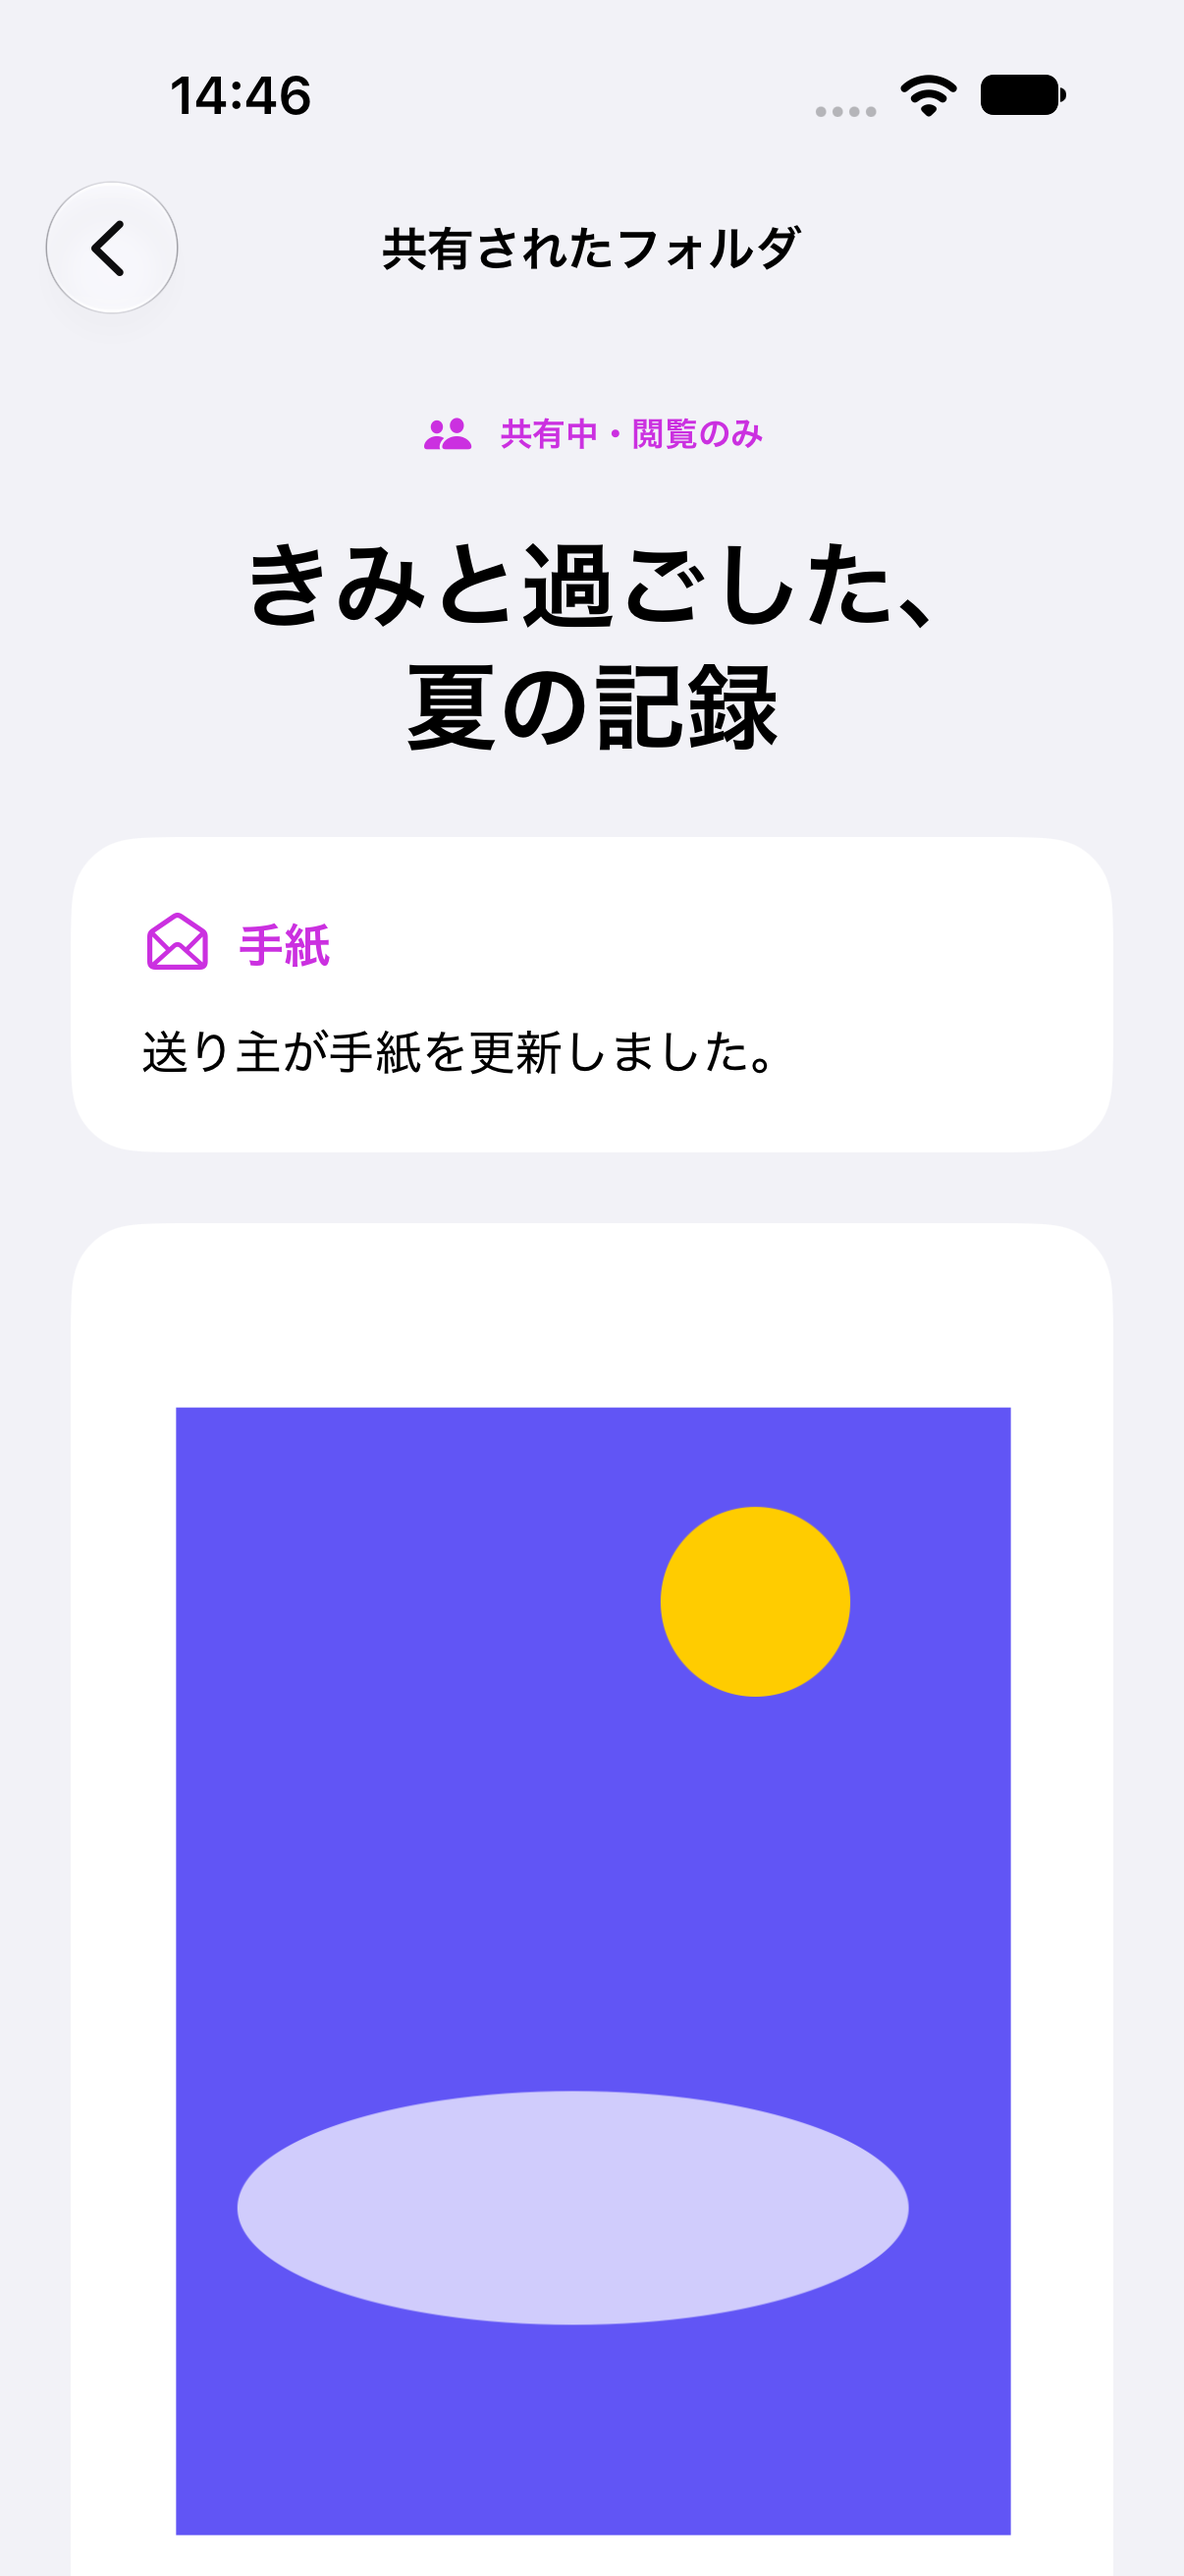
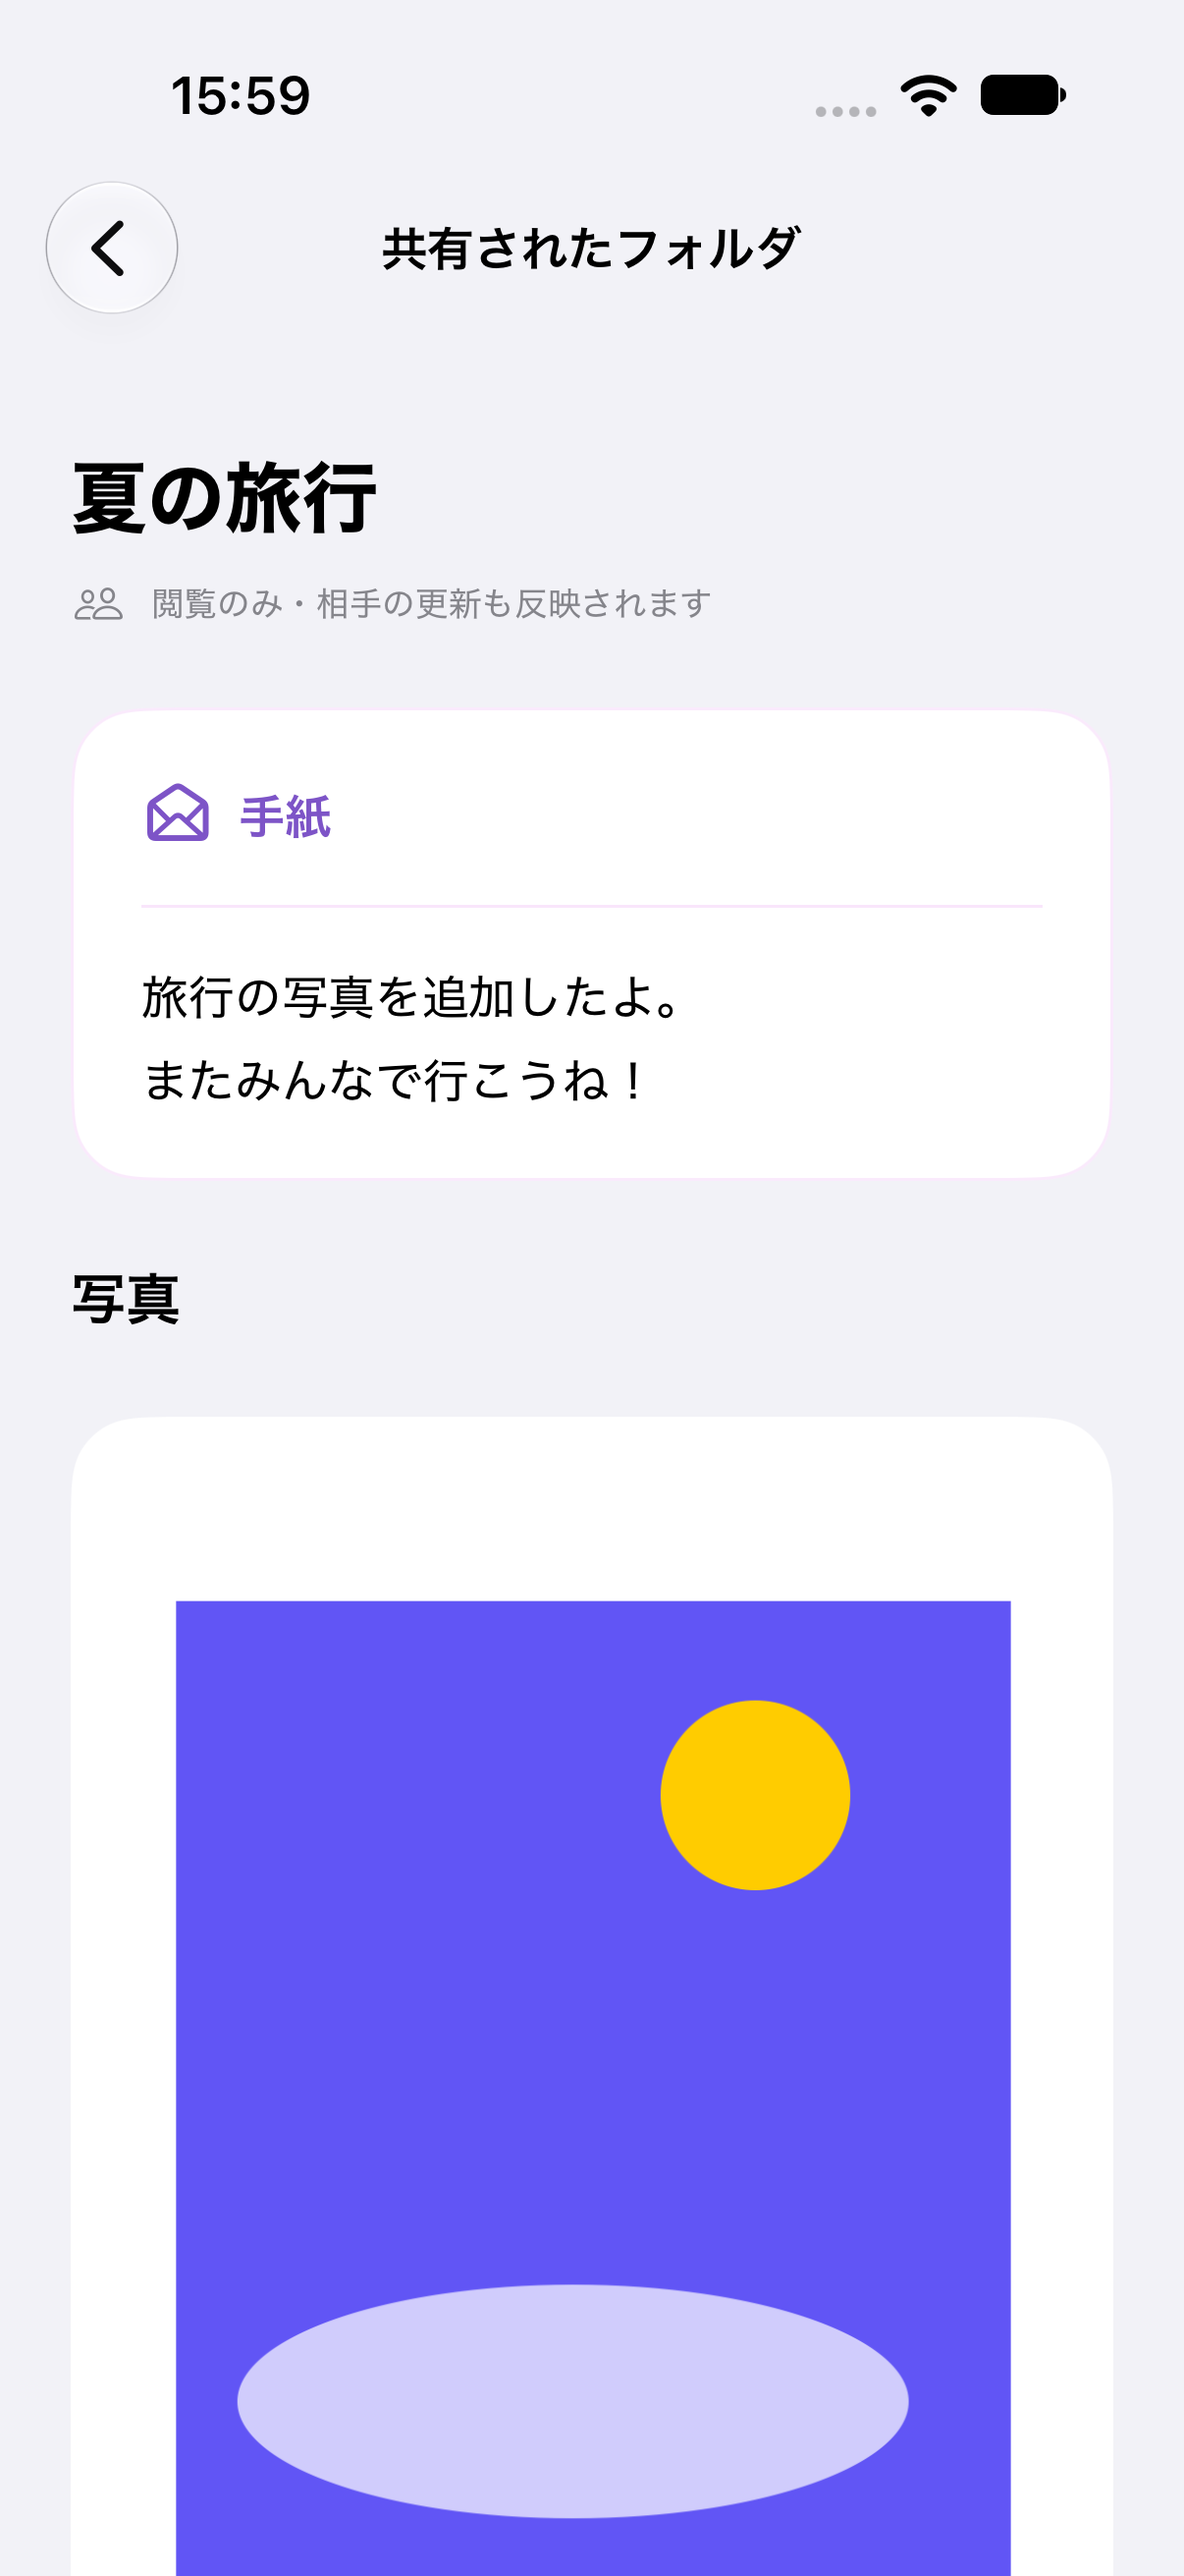
招待の受け取り画面と共有フォルダの表示を整える

diff --git a/sotsugyo/View/FolderInvitationView.swift b/sotsugyo/View/FolderInvitationView.swift
@@ -23,30 +23,40 @@ struct FolderInvitationView: View {
             ZStack {
                 GiftBackdrop()
                 ScrollView {
-                    VStack(spacing: 28) {
+                    VStack(spacing: 24) {
                         if let invitation = model.invitation {
-                            VStack(spacing: 10) {
+                            VStack(spacing: 18) {
                                 Text("\(invitation.senderName)さんから")
                                     .font(.subheadline.weight(.semibold))
-                                    .foregroundStyle(.secondary)
+                                    .foregroundStyle(GiftPalette.purple)
+                                    .padding(.horizontal, 16).padding(.vertical, 8)
+                                    .background(GiftPalette.purple.opacity(0.08), in: Capsule())
                                 Text(invitation.folder.title)
                                     .font(.system(size: 28, weight: .heavy, design: .rounded))
                                     .multilineTextAlignment(.center)
                                     .accessibilityIdentifier("invite.heading")
                             }
-                            .padding(.top, 28)
+                            .padding(.top, 24)
                             GiftEnvelope(opened: opened, reduceMotion: reduceMotion)
                                 .scaleEffect(0.85).frame(height: 250)
-                            if opened {
-                                Label("受け取りました", systemImage: "checkmark.circle.fill")
-                                    .font(.headline).foregroundStyle(GiftPalette.purple)
-                                    .accessibilityIdentifier("invite.received")
-                            }
+                            Label("受け取りました", systemImage: "checkmark.circle.fill")
+                                .font(.headline).foregroundStyle(GiftPalette.purple)
+                                .opacity(opened ? 1 : 0)
+                                .accessibilityHidden(!opened)
+                                .accessibilityIdentifier("invite.received")
                         }
                         controls
-                        Text("相手が写真や手紙を更新すると、ここにも反映されます。\n内容を編集することはできません。")
-                            .font(.caption).foregroundStyle(.secondary)
+                        if model.invitation != nil {
+                            VStack(spacing: 8) {
+                                Label("相手の更新もここに反映されます", systemImage: "arrow.triangle.2.circlepath")
+                                    .font(.footnote.weight(.medium))
+                                Text("写真や手紙を見ることができます。編集はできません。")
+                                    .font(.caption)
+                            }
+                            .foregroundStyle(.secondary)
                             .multilineTextAlignment(.center)
+                            .padding(.top, 2)
+                        }
                     }
                     .padding(.horizontal, 28).padding(.bottom, 32)
                     .frame(maxWidth: 540).frame(maxWidth: .infinity)
@@ -79,12 +89,20 @@ struct FolderInvitationView: View {
 
     @ViewBuilder private var controls: some View {
         if let error = model.error {
-            VStack(spacing: 12) {
+            VStack(spacing: 20) {
+                if model.invitation == nil {
+                    Image(systemName: "envelope.badge")
+                        .font(.system(size: 44, weight: .light))
+                        .foregroundStyle(GiftPalette.purple)
+                        .padding(.top, 64)
+                }
                 Text(error).font(.subheadline).multilineTextAlignment(.center).accessibilityIdentifier("invite.error")
                 Button("もう一度試す") { Task { if model.invitation == nil { await model.load(link) } else { await model.receive() } } }
+                    .buttonStyle(.bordered).controlSize(.large)
             }
         } else if model.invitation == nil {
             ProgressView("招待を確認しています…")
+                .padding(.top, 80)
         } else {
             Button {
                 if opened { showFolder = true } else { Task { await model.receive() } }

diff --git a/sotsugyo/View/SharedFolderView.swift b/sotsugyo/View/SharedFolderView.swift
@@ -19,22 +19,34 @@ struct SharedFolderView: View {
     }
     var body: some View {
         ScrollView {
-            VStack(spacing: 24) {
-                Label("共有中・閲覧のみ", systemImage: "person.2.fill")
-                    .font(.caption.bold()).foregroundStyle(.purple)
-                Text(model.folder?.title ?? reference.title).font(.largeTitle.bold()).multilineTextAlignment(.center)
+            VStack(alignment: .leading, spacing: 28) {
+                VStack(alignment: .leading, spacing: 12) {
+                    Text(model.folder?.title ?? reference.title)
+                        .font(.system(size: 28, weight: .heavy, design: .rounded))
+                        .frame(maxWidth: .infinity, alignment: .leading)
+                    Label("閲覧のみ・相手の更新も反映されます", systemImage: "person.2")
+                        .font(.caption).foregroundStyle(.secondary)
+                }
+                .padding(.top, 12)
                 if let error = model.error {
                     Text(error).font(.subheadline).multilineTextAlignment(.center)
                     Button("再読み込み") { retryID = UUID() }
                 }
                 if model.isLoading { ProgressView("フォルダを読み込んでいます…") }
                 if let folder = model.folder, !folder.letter.isEmpty {
-                    VStack(alignment: .leading, spacing: 16) {
-                        Label("手紙", systemImage: "envelope.open").font(.headline).foregroundStyle(.purple)
+                    VStack(alignment: .leading, spacing: 20) {
+                        Label("手紙", systemImage: "envelope.open")
+                            .font(.system(.headline, design: .rounded, weight: .bold))
+                            .foregroundStyle(Color(red: 0.49, green: 0.33, blue: 0.78))
+                        Rectangle().fill(.purple.opacity(0.12)).frame(height: 1)
                         Text(folder.letter).font(.body).lineSpacing(8).frame(maxWidth: .infinity, alignment: .leading)
                             .accessibilityIdentifier("shared.letter")
                     }
                     .padding(24).background(Color(uiColor: .secondarySystemGroupedBackground), in: RoundedRectangle(cornerRadius: 24))
+                    .overlay { RoundedRectangle(cornerRadius: 24).strokeBorder(.purple.opacity(0.10), lineWidth: 1) }
+                }
+                if !model.photos.isEmpty {
+                    Text("写真").font(.system(.title3, design: .rounded, weight: .bold))
                 }
                 ForEach(model.photos) { photo in
                     VStack(spacing: 0) {

diff --git a/sotsugyo/Utils/UITestFixtures.swift b/sotsugyo/Utils/UITestFixtures.swift
@@ -124,7 +124,7 @@ final class UITestSettingViewModel: SettingViewModel {
 #if DEBUG
 struct UITestInvitationRepository: FolderInvitationRepository {
     static let link = FolderInviteLink(token: String(repeating: "a", count: 64))
-    static let shared = LiveSharedFolder(ownerID: "fixture-owner", folderID: "fixture-shared", title: "きみと過ごした、夏の記録")
+    static let shared = LiveSharedFolder(ownerID: "fixture-owner", folderID: "fixture-shared", title: "夏の旅行")
     func create(folderID: String) async throws -> FolderInvitation { try await resolve(link: Self.link) }
     func resolve(link: FolderInviteLink) async throws -> FolderInvitation {
         if ProcessInfo.processInfo.arguments.contains("-ui-testing-invite-expired") { throw FolderInviteError.unavailable }
@@ -140,13 +140,13 @@ struct UITestInvitationRepository: FolderInvitationRepository {
     func observe(_ folder: LiveSharedFolder) -> AsyncThrowingStream<SharedFolderUpdate, Error> {
         AsyncThrowingStream { continuation in
             continuation.yield(.folder(PhotoFolder(id: folder.folderID, title: folder.title, date: nil,
-                letter: "あの日の空も、帰り道に聴いた曲も。\n何気ない時間が、いちばんの宝物です。\nまた一緒に、思い出を増やそうね。")))
+                letter: "旅行の写真をまとめたよ。\nまたみんなで行こうね！")))
             continuation.yield(.photos([PhotoRecord(id: "fixture", fileName: "fixture.jpg", date: Date(), music: nil, livePhotoFileName: "")]))
             let update = Task {
                 if ProcessInfo.processInfo.arguments.contains("-ui-testing-invite-update") {
                     try? await Task.sleep(for: .seconds(2))
                     guard !Task.isCancelled else { return }
-                    continuation.yield(.folder(PhotoFolder(id: folder.folderID, title: folder.title, date: nil, letter: "送り主が手紙を更新しました。")))
+                    continuation.yield(.folder(PhotoFolder(id: folder.folderID, title: folder.title, date: nil, letter: "旅行の写真を追加したよ。\nまたみんなで行こうね！")))
                 }
             }
             continuation.onTermination = { _ in update.cancel() }

diff --git a/sotsugyoUITests/sotsugyoUITests.swift b/sotsugyoUITests/sotsugyoUITests.swift
@@ -8,7 +8,7 @@ final class sotsugyoUITests: XCTestCase {
         app.launchArguments = ["-ui-testing", "-ui-testing-invite", "-ui-testing-invite-update", "-AppleLanguages", "(ja)", "-AppleLocale", "ja_JP"]
         app.launch()
         XCTAssertTrue(app.buttons["invite.open"].waitForExistence(timeout: 10))
-        XCTAssertEqual(app.staticTexts["invite.heading"].label, "きみと過ごした、夏の記録")
+        XCTAssertEqual(app.staticTexts["invite.heading"].label, "夏の旅行")
         XCTAssertTrue(app.staticTexts["さきさんから"].exists)
         attachScreenshot("招待の封筒")
         app.buttons["invite.open"].tap()
@@ -16,7 +16,7 @@ final class sotsugyoUITests: XCTestCase {
         attachScreenshot("思い出の開封")
         app.buttons["invite.open"].tap()
         XCTAssertTrue(app.staticTexts["shared.letter"].waitForExistence(timeout: 10))
-        let updated = NSPredicate(format: "label == %@", "送り主が手紙を更新しました。")
+        let updated = NSPredicate(format: "label == %@", "旅行の写真を追加したよ。\nまたみんなで行こうね！")
         XCTAssertEqual(XCTWaiter.wait(for: [XCTNSPredicateExpectation(predicate: updated, object: app.staticTexts["shared.letter"])], timeout: 8), .completed)
         attachScreenshot("共有フォルダの同期")
     }

diff --git a/docs/verification/invite-links/README.md b/docs/verification/invite-links/README.md
@@ -4,7 +4,7 @@
 
 ## 画面
 
-招待・送信画面は送り主と実際のフォルダ名を主役にしています。太めのフォントと紫の封筒を残し、英字の飾り・抽象的なコピー・背景のぼかし・常時表示の星を外しました。受け取り成功時にカードが現れ、キラキラした粒子が広がります。文面は「リンクで共有」「共有されたフォルダ」など、操作や内容が直接伝わる表現に揃えています。
+招待・送信画面は送り主と実際のフォルダ名を主役にしています。太めのフォントと紫の封筒を残し、英字の飾り・抽象的なコピー・背景のぼかし・常時表示の星を外しました。受け取り成功時にカードが現れ、キラキラした粒子が広がります。文面は「リンクで共有」「共有されたフォルダ」など、操作や内容が直接伝わる表現に揃えています。受信画面は送り主を淡い紫のラベルで示し、開封前後で操作ボタンの位置を維持。受け取り後は見出しを左揃えにし、手紙と写真を分けて表示します。確認用のフォルダ名・手紙も普段のやり取りに近い文章にしています。
 
 Xcode 27.2 beta 2 / iPhone 18 Pro / iOS 27.0 の専用シミュレーター「PicTune Model Review」。写真・送り主名は確認用の架空データです。
 
@@ -24,6 +24,7 @@ Xcode 27.2 beta 2 / iPhone 18 Pro / iOS 27.0 の専用シミュレーター「Pi
 - 最新mainの写真詳細改善を統合後、単体43件と招待作成・開封・写真詳細のUIテスト3件を再実行して成功。
 - 2026-10-07: 送り主・フォルダ名を主役にした画面で、招待作成・無効化、期限切れ、通信失敗、開封と同期のUIテスト4件が成功。最終の文字色調整後にも送信・開封の2件を再実行し成功。掲載画像は最終画面です。
 - 2026-10-07: 文面のみの調整後、招待作成・無効化と開封・手紙の同期のUIテスト2件が成功。送信・受信・共有フォルダの文章の折り返しを確認し、掲載画像を更新。配色・フォント・アニメーションは変更していません。
+- 2026-10-07: 受信画面と共有フォルダの調整後、開封・手紙の同期、期限切れ、通信失敗のUIテスト3件が成功。受け取り前後のボタン位置、説明文と手紙の表示をシミュレーター画像で確認。受信・開封・共有フォルダの掲載画像を更新。
 - `git diff --check` 成功。
 
 ## 本番への反映
